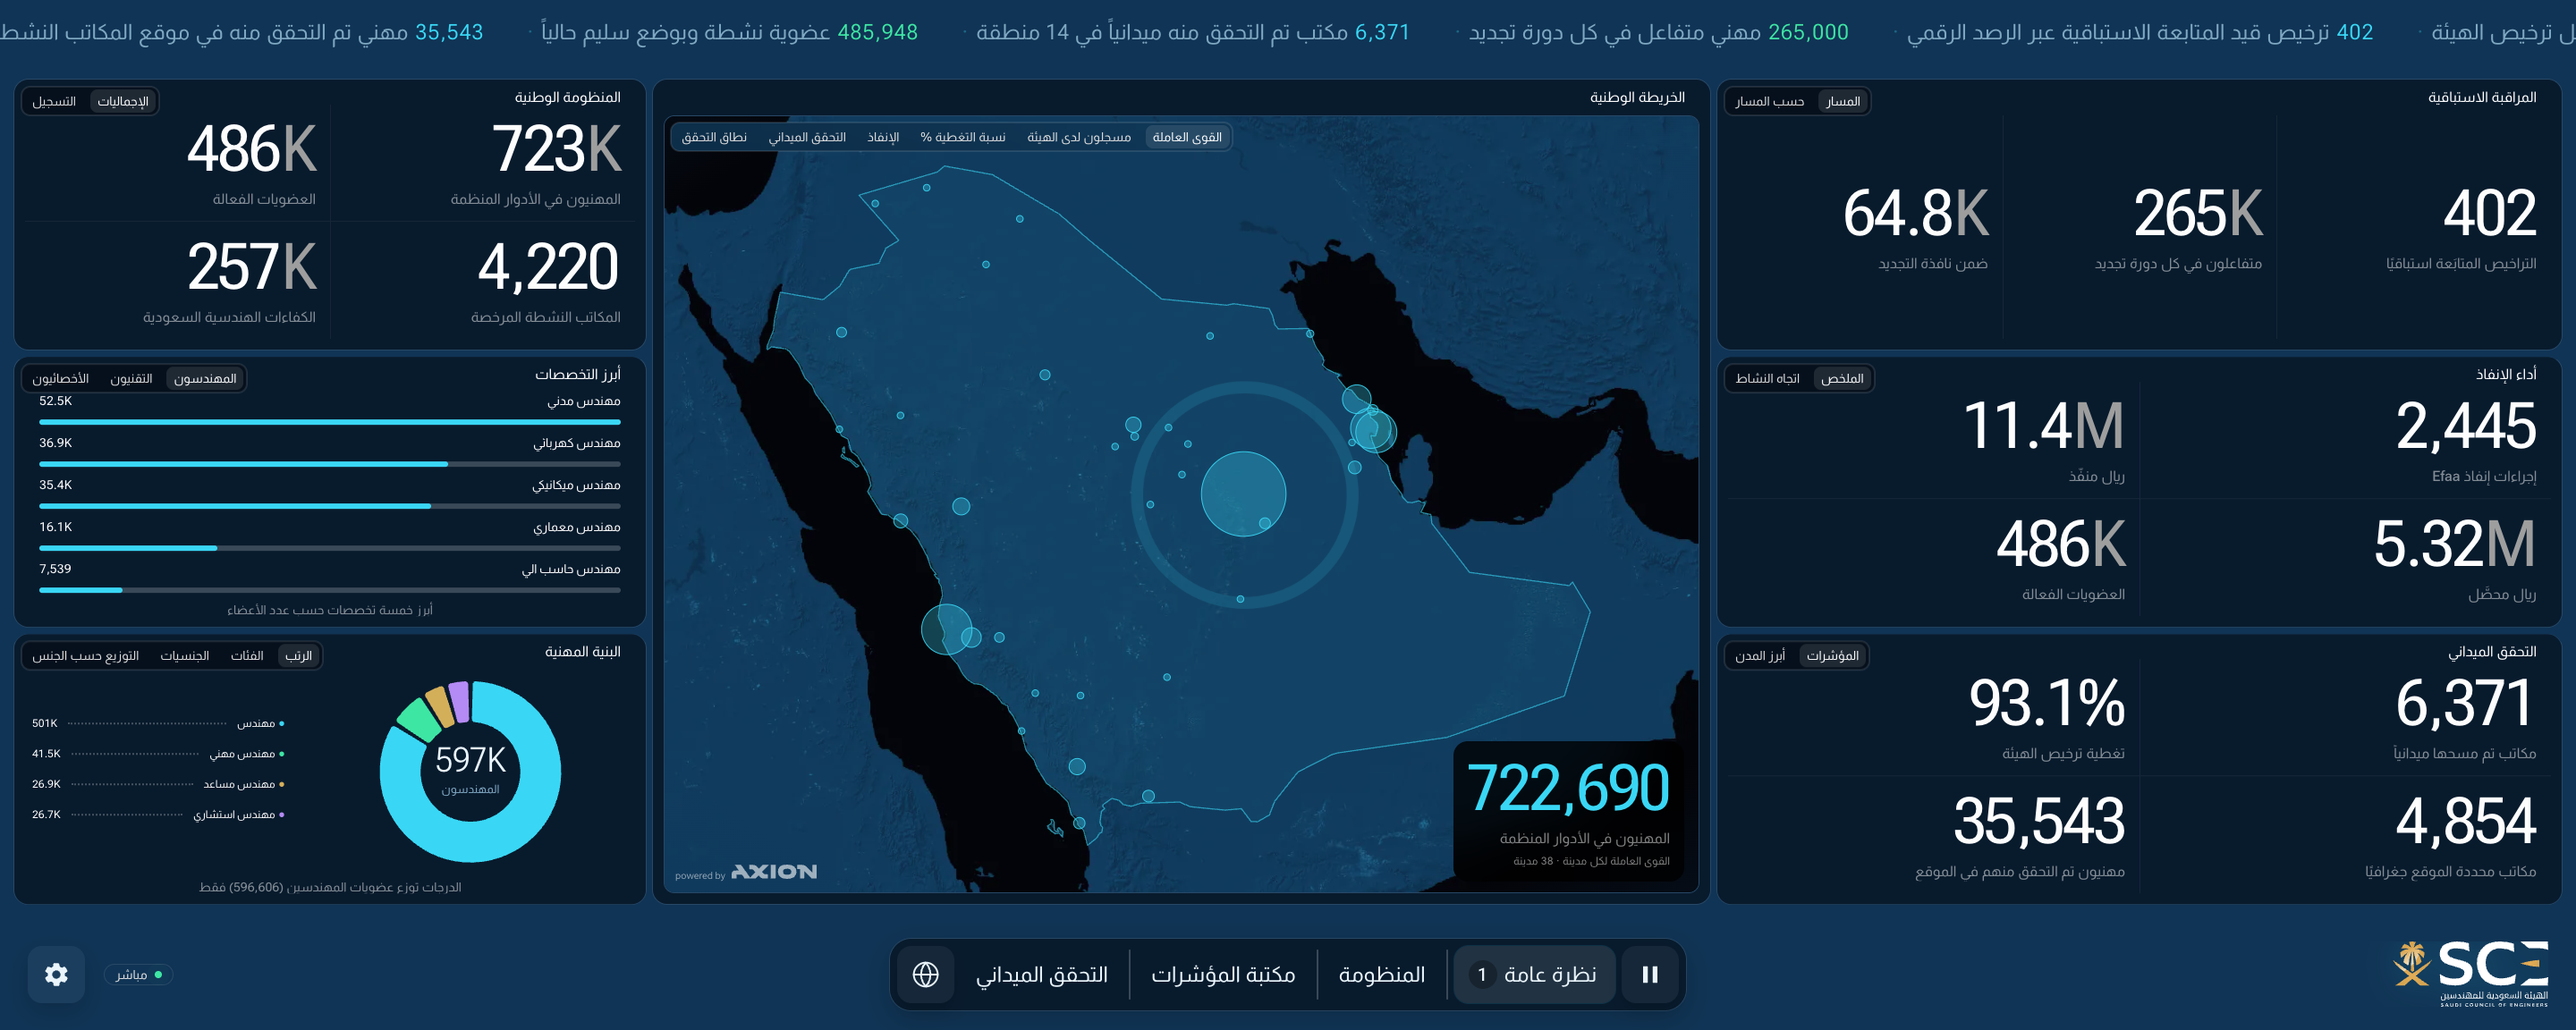
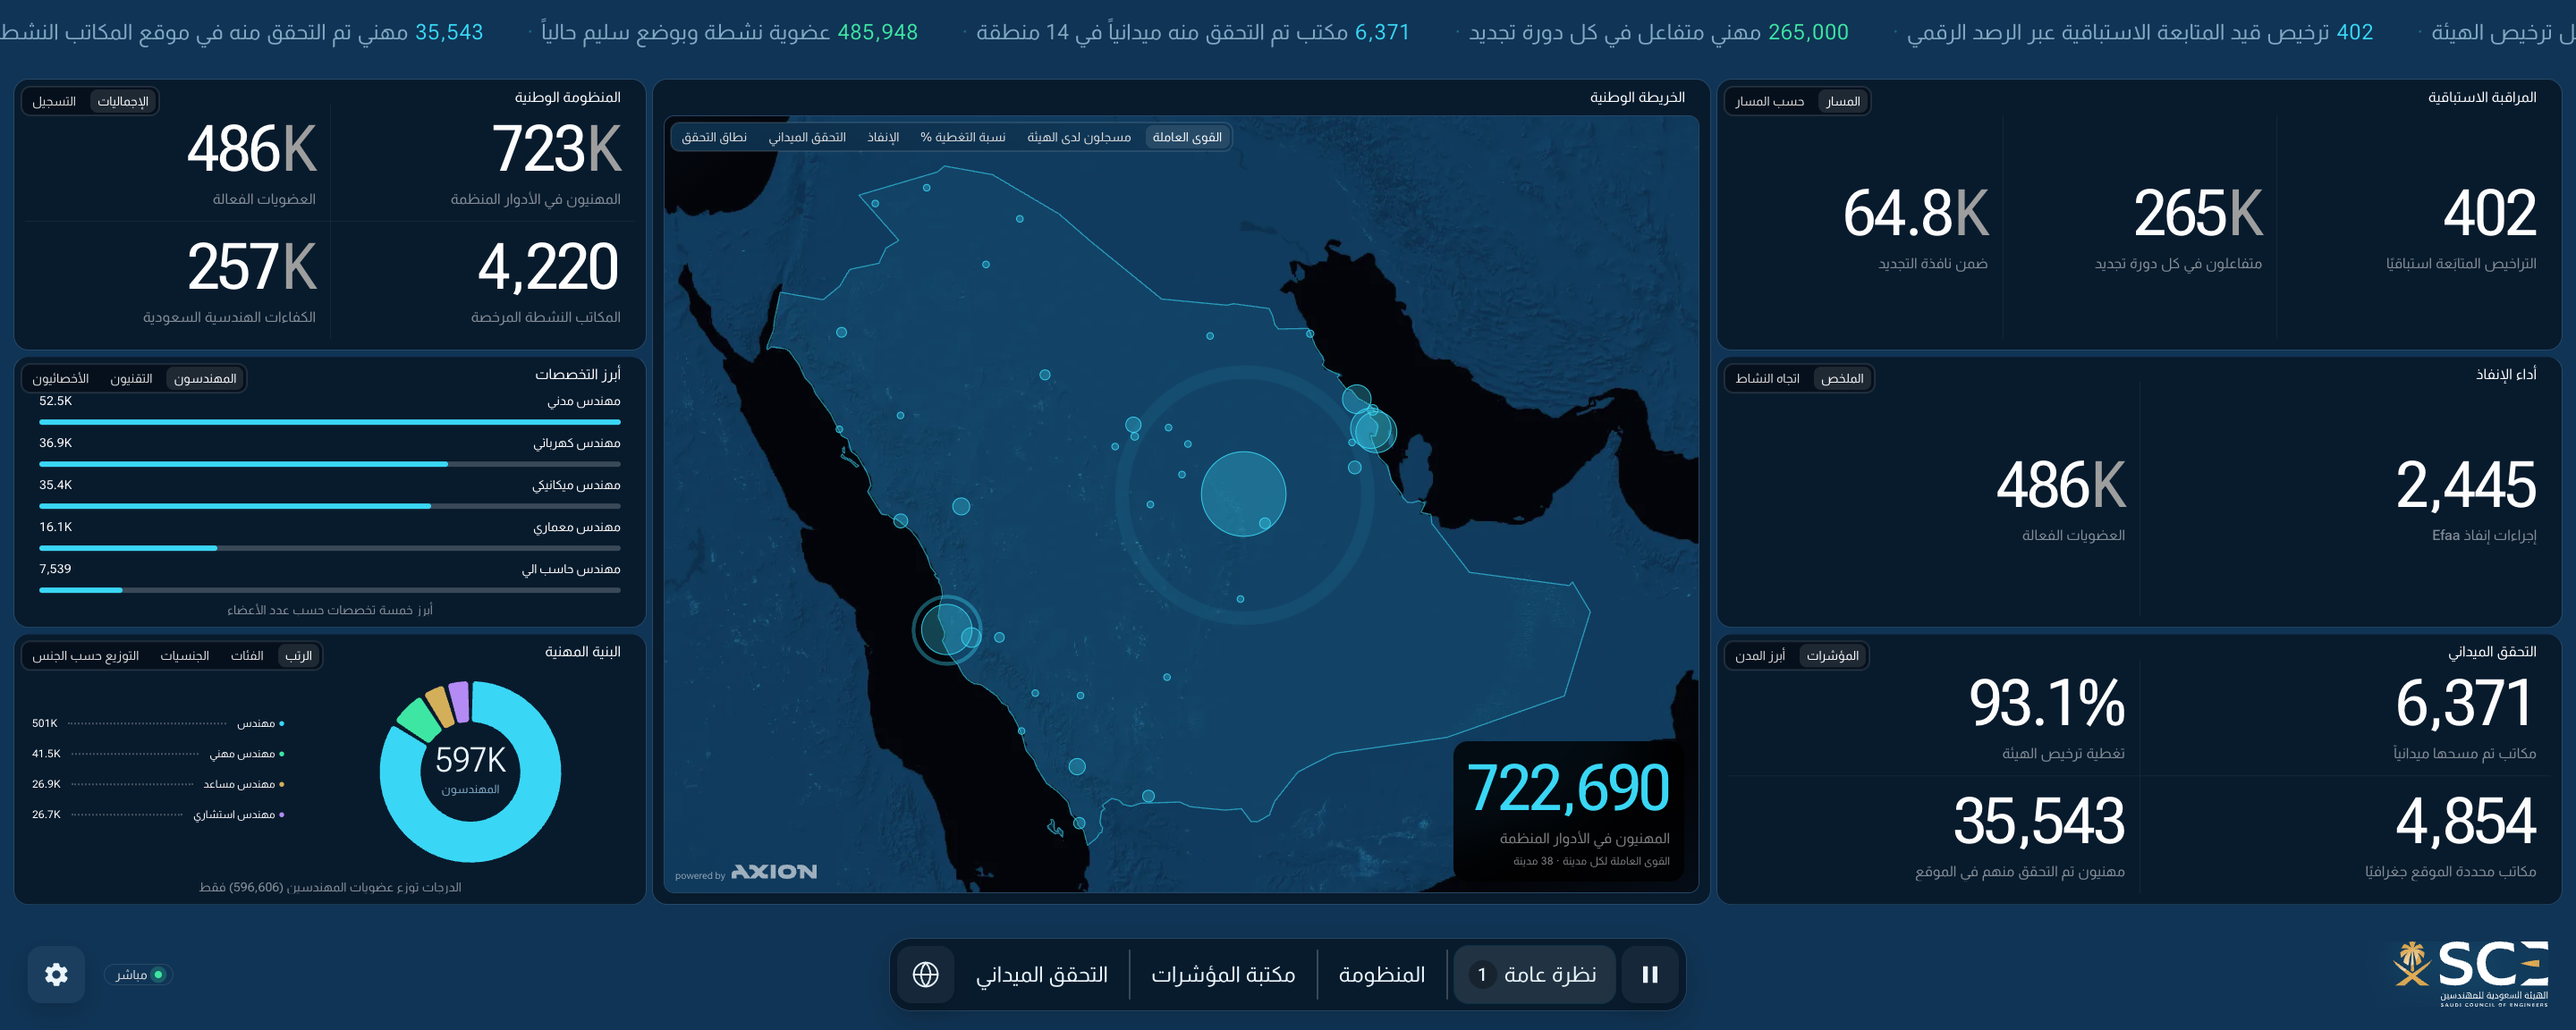
Take the SAR figures off the Overview enforcement panel
SCE were told they may not display anything relating to collections or
amounts (client review, 2026-08-30). SAR enforced and SAR collected are gone
from Enforcement delivery, which leaves a count of cases — not an amount —
and the membership total. The panel's second view stays: the 36-month Efaa
trend is plotted unitless, so it carries no money either.

Scoped to what SCE named, the Overview page and the ticker. The same two
figures are still on the Ecosystem board's enforcement panel and in the KPI
Library's "Value enforced & collected" card. Their wording covers those too,
and they have been asked; until they answer, the boards keep them rather than
losing content nobody requested be lost.

Two things this leaves for whoever picks it up next, both visible on the wall
rather than in the source:

- 486K Active memberships now shows twice on Overview — here and on the
  National ecosystem tile, which took that figure in the previous review. It
  did not read as a duplicate while this panel held four tiles.
- Two tiles now occupy a box sized for four, so the panel sits half empty.

Both are one edit to fix and both are design calls, so they are left alone
rather than guessed at a day before the stand.

Verified with tools/shoot.mjs at 2880x1152 in both locales (no overflow, no
clipping) and tools/audit-data.mjs (1362 values, 0 unaccounted). No "SAR" or
"ريال" appears anywhere on the Overview page in either locale. Reference
shots regenerated.

Changed region(s): [[0.9062, 0.375, 1.0, 0.5625], [0.75, 0.375, 0.8438, 0.5938]]

diff --git a/app/assets/js/boards/bigscreen.js b/app/assets/js/boards/bigscreen.js
@@ -332,10 +332,16 @@
           Chart.mount(el, {
             chart: 'indicator',
             cols: 2,
+            /* SAR enforced and SAR collected are gone: SCE told us they are
+               not permitted to show collections or amounts (client review,
+               2026-08-30). What is left is a count of cases, which is not an
+               amount, and the membership total. The trend view below stays —
+               it is plotted unitless, so it carries no money either. The same
+               two figures still appear on the Ecosystem board and in the KPI
+               Library; SCE named only the Overview page and the ticker, and
+               those two are pending their answer. */
             items: [
               { value: Data.head.cases, format: 'grouped', label: t('m.cases') },
-              { value: Data.head.enforced, format: 'sar', label: t('m.enforced') },
-              { value: Data.head.collected, format: 'sar', label: t('m.collected') },
               { value: Data.register.active, format: 'compact', label: t('m.active') },
             ],
           });
